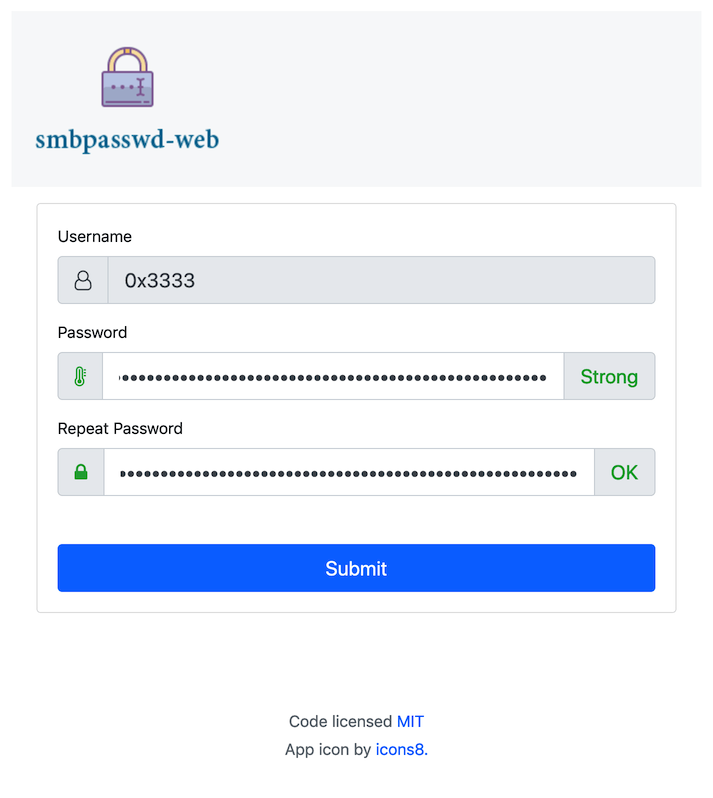
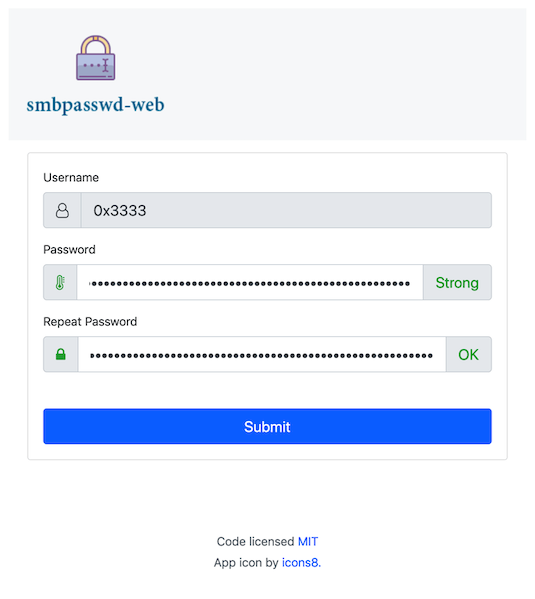
Added another image to README.md

diff --git a/README.md b/README.md
@@ -8,7 +8,8 @@ The only purpose is to allow a user to change its samba password using a webbrow
 
 ## Sneak peek
 
-![smbpasswd-web screenshog](https://github.com/0x3333/smbpasswd-web/blob/master/.github/smbpasswd-main.png)
+![smbpasswd-web screenshot](https://github.com/0x3333/smbpasswd-web/blob/master/.github/smbpasswd-main.png)
+![smbpasswd-web screenshot ok](https://github.com/0x3333/smbpasswd-web/blob/master/.github/smbpasswd-ok.png)
 
 ## How it works?
 
